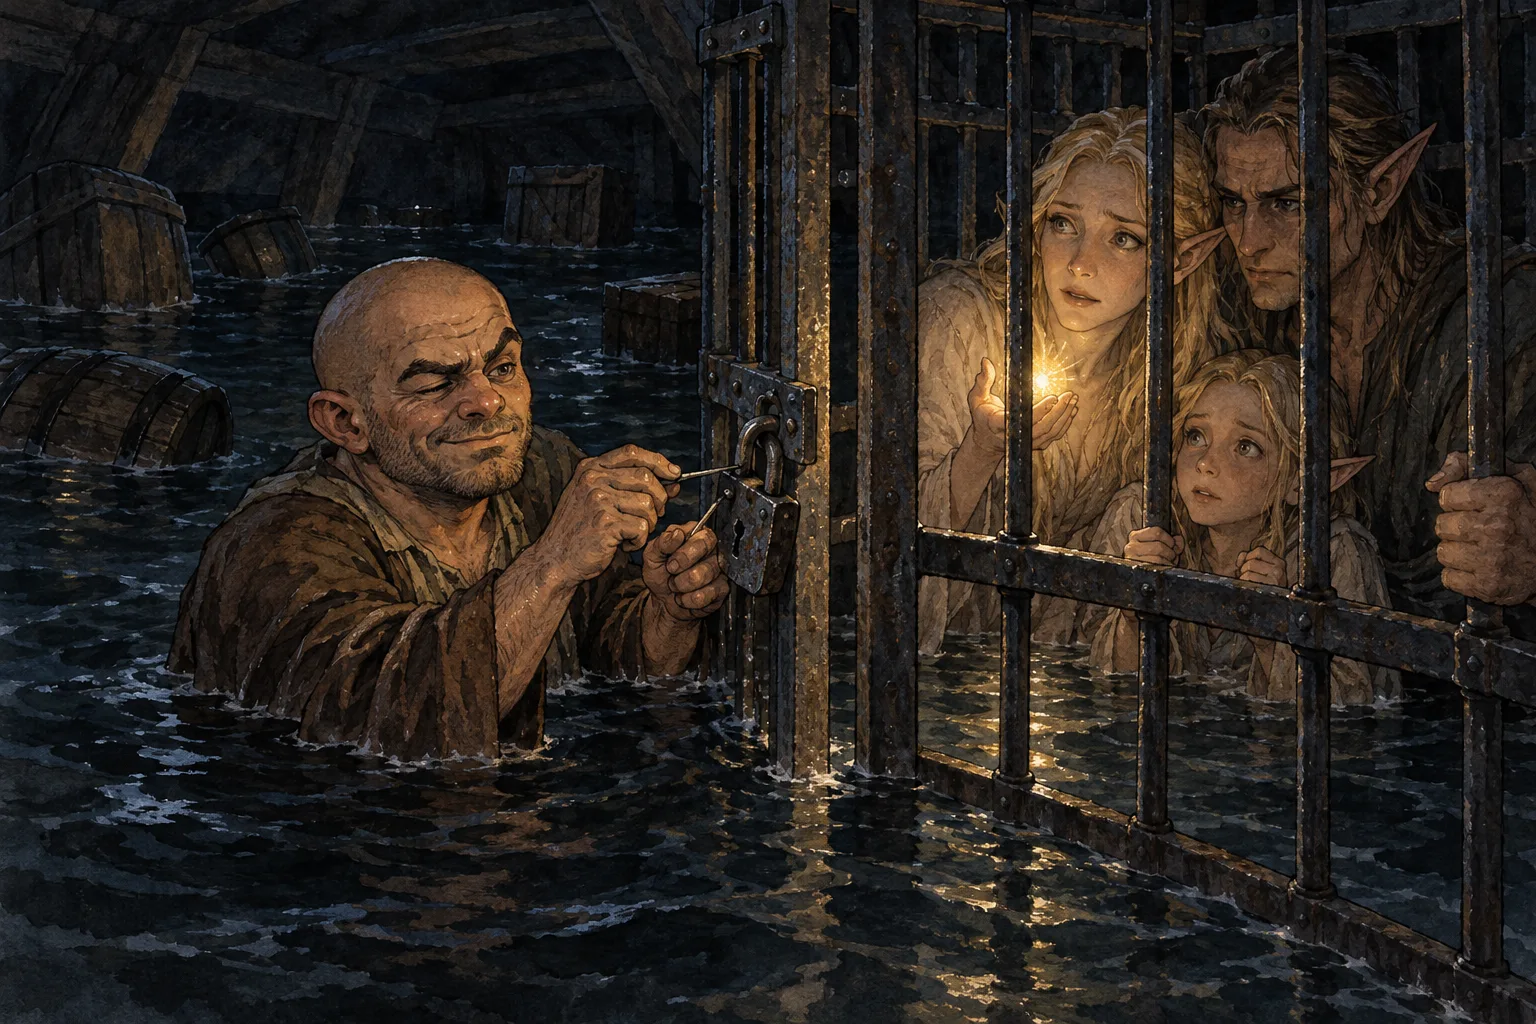
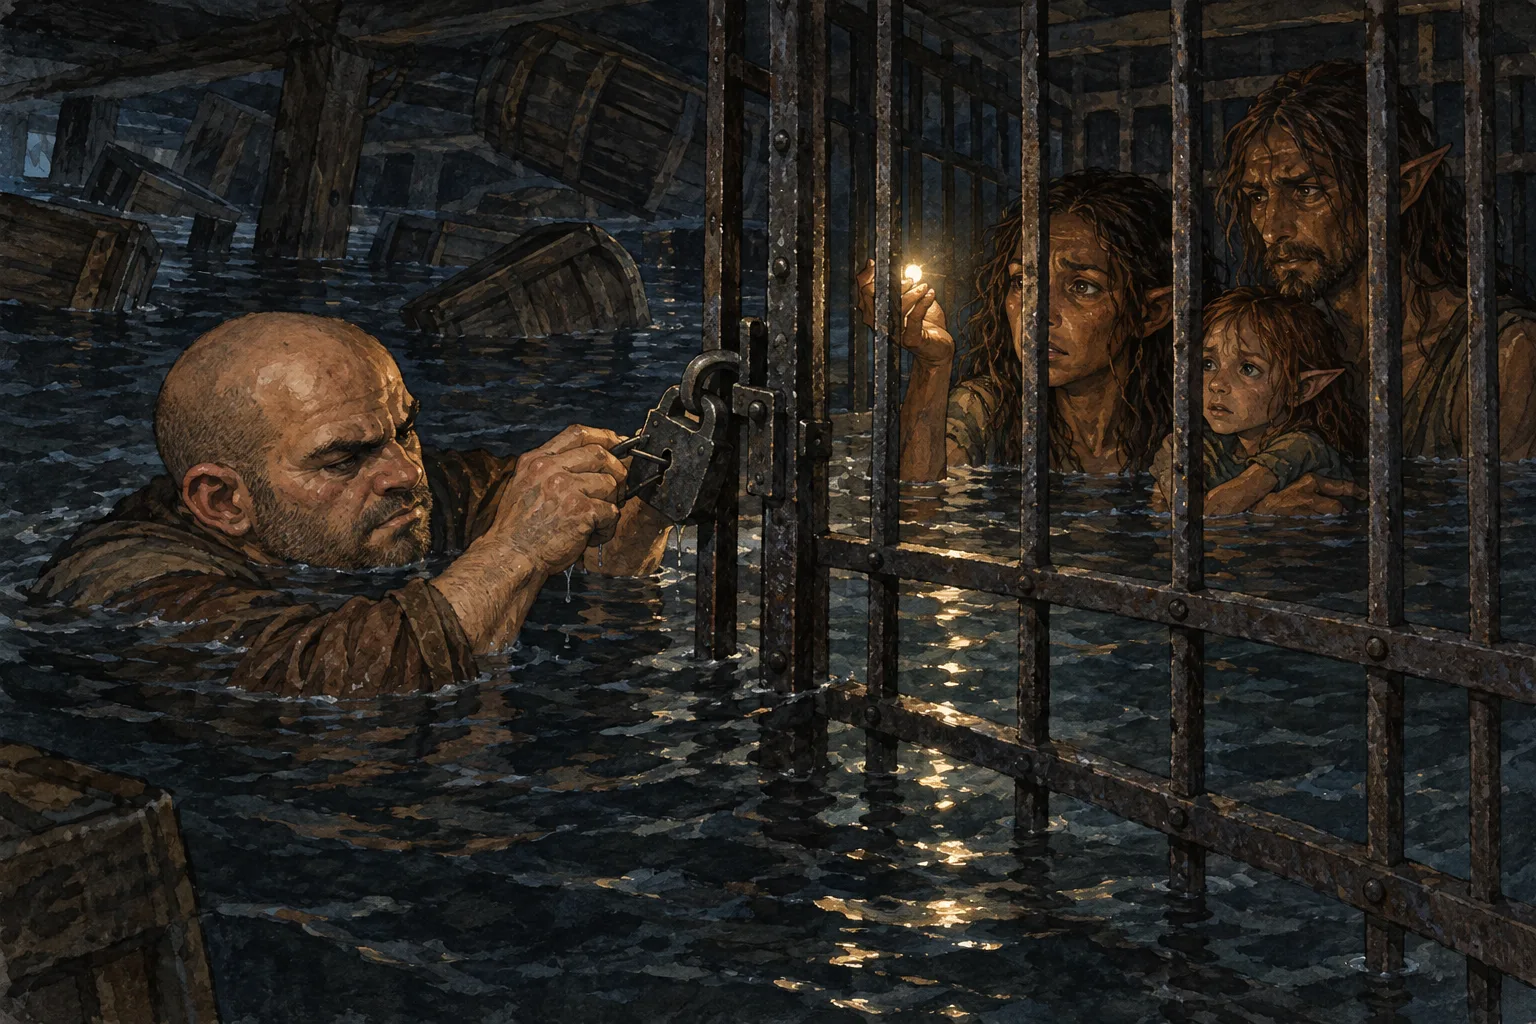
Brownsleeves picture: grim, water to his chin, wood elves in the cage

diff --git a/src/content/docs/people/brownsleeves.md b/src/content/docs/people/brownsleeves.md
@@ -68,7 +68,7 @@ campaigns:
 The *Evening Star* was the flagship privateer of the [Sword Coast Trading Company](/organizations/sword-coast-trading-company/), under Captain [Ysmir St. Cloud](/people/ysmir-st-cloud/), and the chronicle opens aboard her. See [Arc I — Hope in Exile](/history/arc-i-hope-in-exile/). Brownsleeves was JL's character for the first session. As the ship went down he was in the hold, trying to free more of the caged slaves kept there, and he died in the wreck. <small>(Dave, sources/dave/2026-10-09-campaigns.md)</small>
 
 ![Brownsleeves picks the lock of a cage in the flooding hold of the Evening Star](/images/generated/brownsleeves-evening-star.webp)
-*Lexical rendering of Brownsleeves picking the lock of a cage that holds an elf family in the flooding hold of the Evening Star, lit by a fleck of the mother's light, as the door opens.*
+*Lexical rendering of Brownsleeves picking the lock of a cage that holds a wood elf family in the flooding hold of the Evening Star, lit by a fleck of the mother's light, as the door opens.*
 
 Ysmir St. Cloud's body "went down with Brownsleeves" on the *Evening Star*. <small>(Oral Histories: Temporal Holdings, 2019-04-05)</small>
 

diff --git a/sources/dave/2026-10-09-campaigns.md b/sources/dave/2026-10-09-campaigns.md
@@ -57,6 +57,14 @@ this looks great but I foget he's a halfling bruce willis. keep everything else 
 
 ---
 
+brownsleeves should not be smiling, his mood before was right, and make it even more dire with the water level pelase.
+
+---
+
+and make the elves more wood elfy and less anime white purity
+
+---
+
 ## What this establishes
 
 - The Lexicon has a Campaigns section: a tile on the front page and one page per campaign, each with a banner and a campaign index.
@@ -75,3 +83,4 @@ this looks great but I foget he's a halfling bruce willis. keep everything else 
 - Brownsleeves is not in the party's group portrait. His picture shows him at level 1, picking the lock of a crate that holds an elf family in the flooded hold, lit by a fleck of light the mother has cast, as the door opens.
 - In his picture Brownsleeves wears brown sleeves, and the family is shut in with no gap to climb through.
 - Brownsleeves looks like a halfling Bruce Willis: bald, stubbled and smirking.
+- In his picture Brownsleeves is grim and does not smile, the water is nearly over his head, and the caged family are wood elves.
